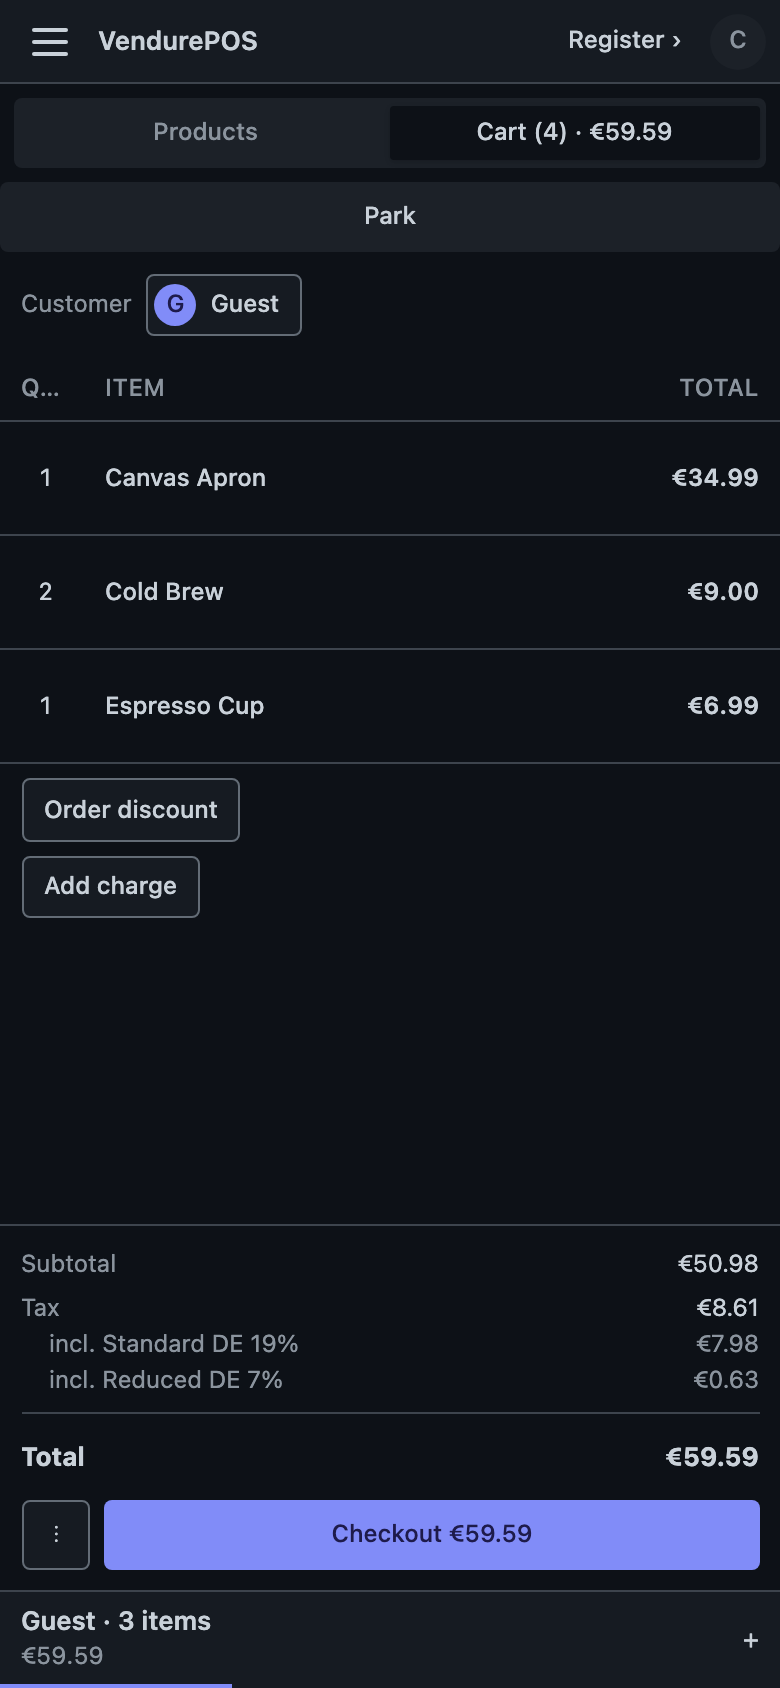
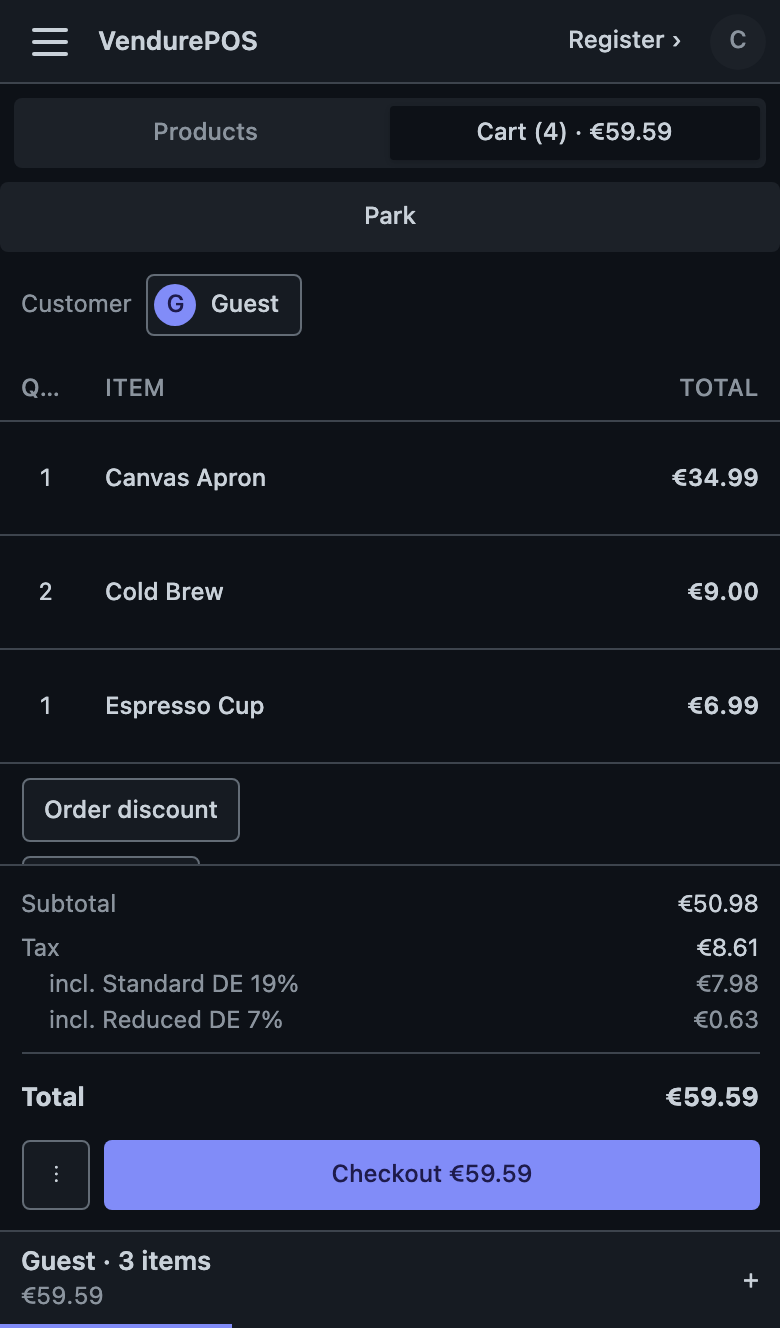
feat(home): phone hero till shot fits one phone screen (#100)
Round 12, C6 (J1, J4, J5): the 390x844 sale capture was 1.5 screens tall
in the hero with an empty band above the totals. Recaptured the same live
demo state at 390x664 (Safari's visible viewport on that phone), DPR 2,
full viewport, unedited: 780x1328. PHONE_HEIGHT.sale follows; the test
pins the PNG height and the <source> height.

Claude-Session: https://claude.ai/code/session_013ukctm5F3AwvUghq5GDt4g

diff --git a/components/till-figure.tsx b/components/till-figure.tsx
@@ -2,9 +2,10 @@ import { getImageProps } from 'next/image';
 import type { ReactNode } from 'react';
 
 // public/till/<name>-{light,dark}.png are live demo till captures (#62) at 1440x900, deviceScaleFactor 2;
-// <name>-phone-{light,dark}.png are the same states at 390x844, deviceScaleFactor 2 (cashier cropped to its sheet).
+// <name>-phone-{light,dark}.png are the same states at 390x844, deviceScaleFactor 2 (sale at 390x664, a phone's
+// visible Safari viewport, round 13; cashier cropped to its sheet).
 // Round 11, C6: a 1440px shot shrunk to a phone is unreadable, so below 640px a <picture> serves the phone capture.
-const PHONE_HEIGHT: Record<string, number> = { sale: 1688, payment: 1688, cashier: 688 };
+const PHONE_HEIGHT: Record<string, number> = { sale: 1328, payment: 1688, cashier: 688 };
 
 function TillPicture({ name, scheme, alt, sizes, eager, className }: {
   name: string; scheme: 'light' | 'dark'; alt: string; sizes: string; eager?: boolean; className: string;
